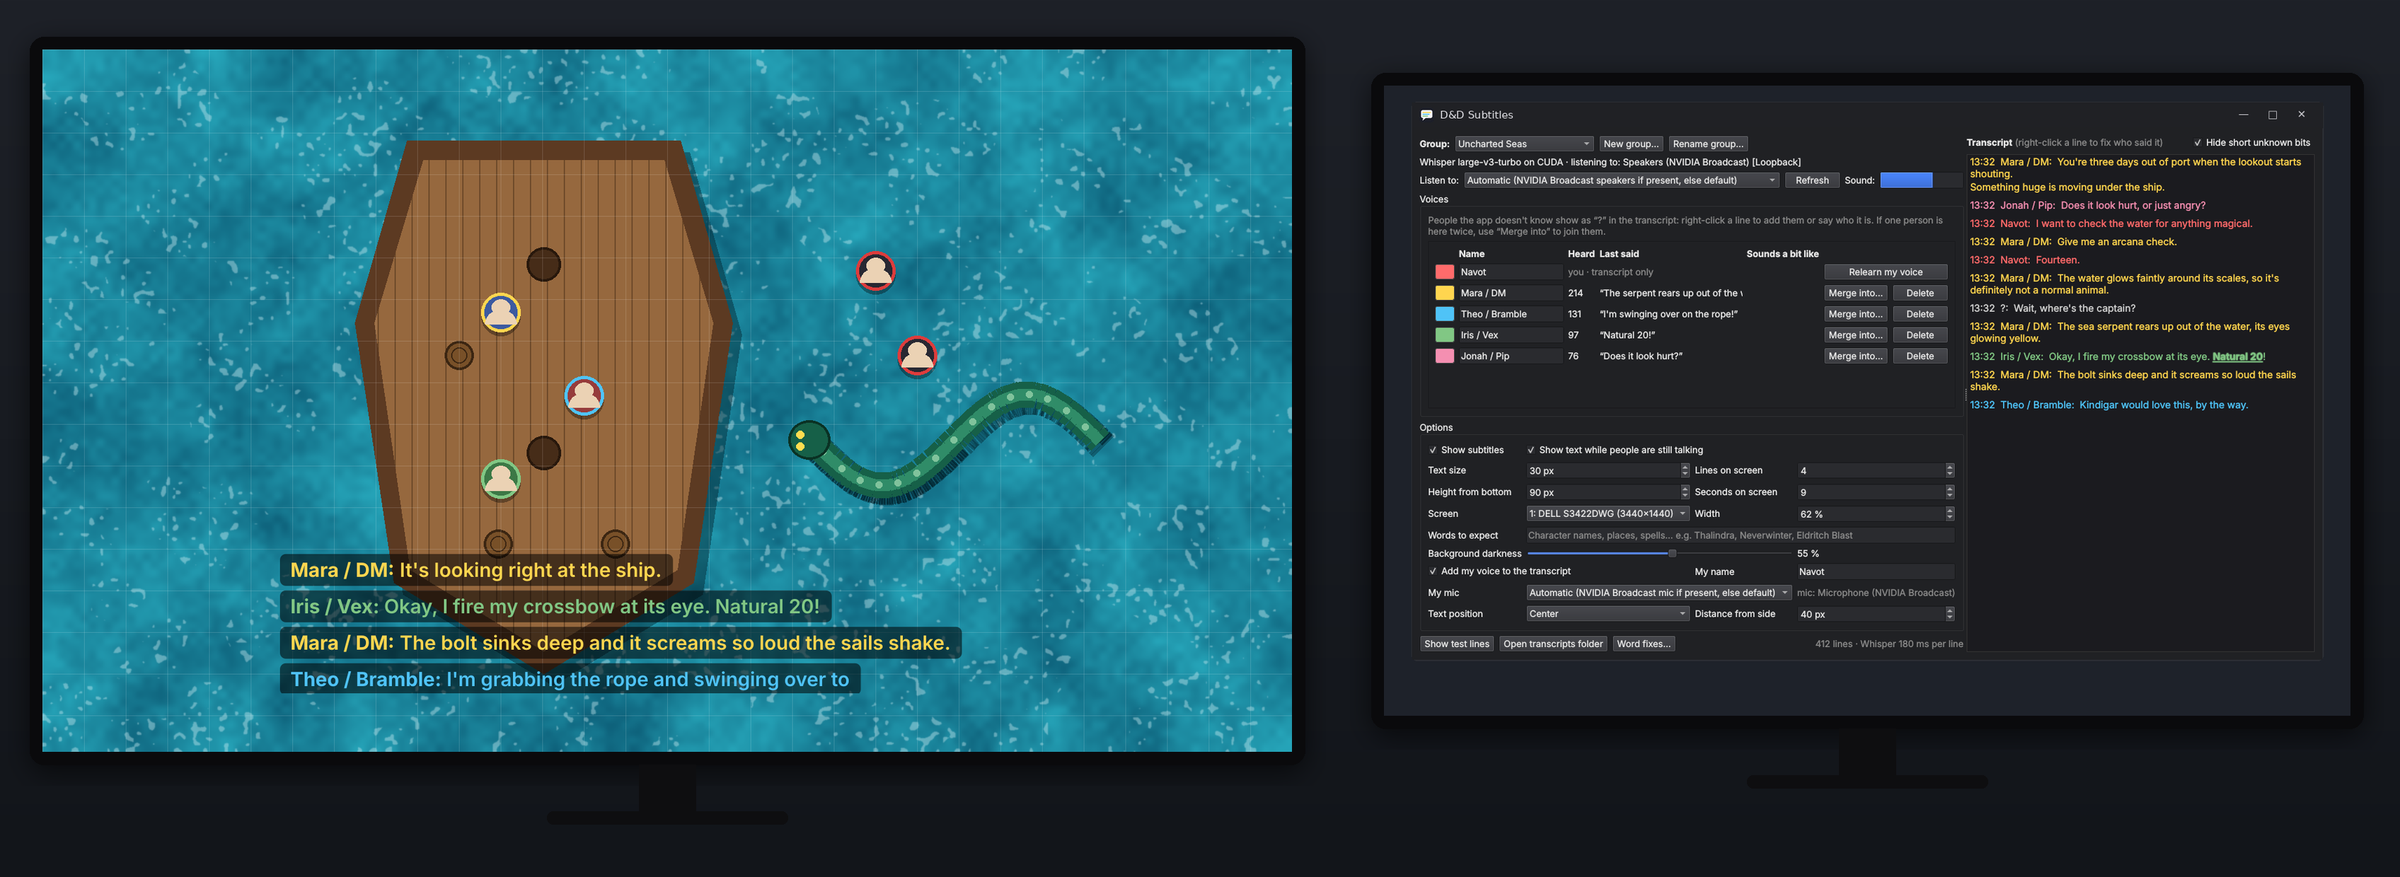
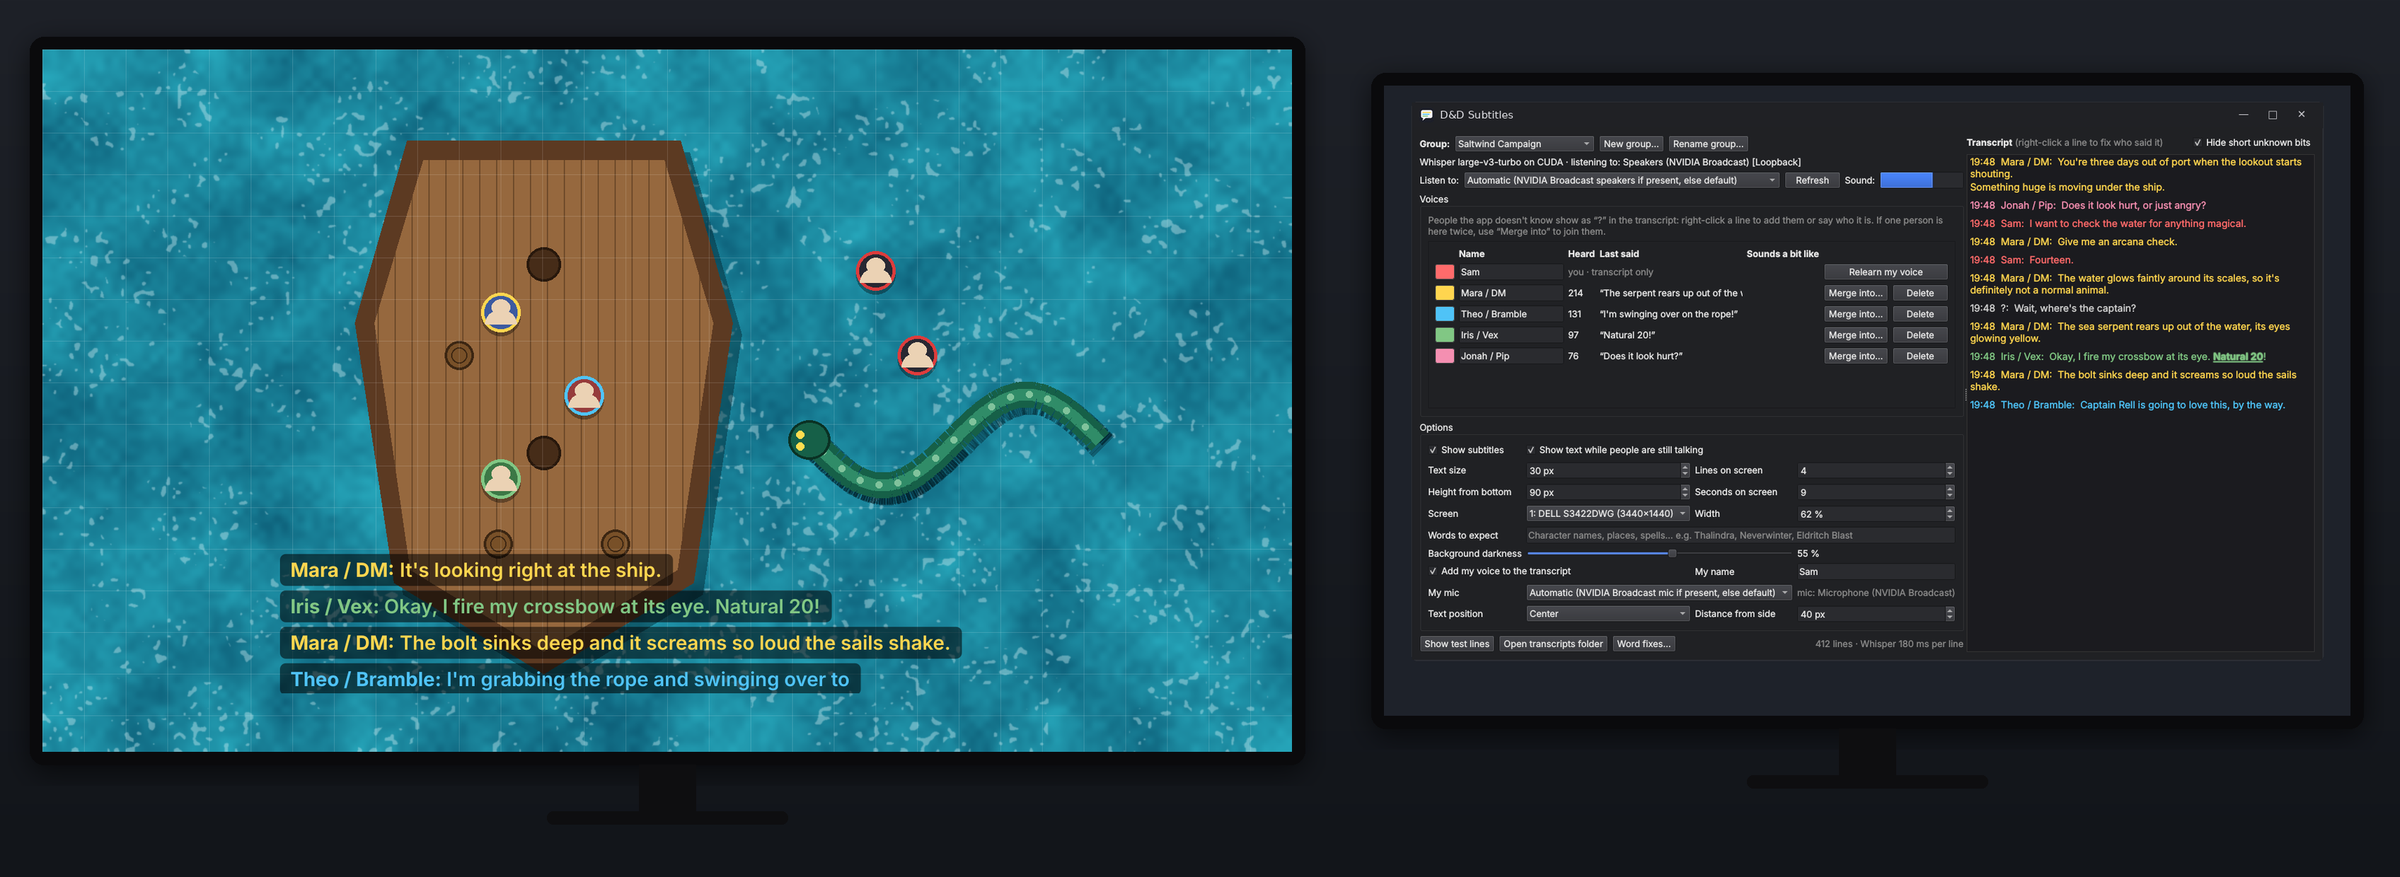
Remove personal defaults: own-voice name comes from the Windows user name, no default word fixes, neutral mockup
Claude-Session: https://claude.ai/code/session_01EempKYzHAEVVzJUmpgSXjm

Changed region(s): [[0.8125, 0.2155, 0.9688, 0.4926], [0.625, 0.1539, 0.6562, 0.1847]]

diff --git a/app.py b/app.py
@@ -571,7 +571,7 @@ class Panel(QtWidgets.QWidget):
         self.cb_me.setChecked(cfg.get("my_voice", True)); self.cb_me.toggled.connect(self.toggle_mic)
         g.addWidget(self.cb_me, 6, 0, 1, 2)
         g.addWidget(QtWidgets.QLabel("My name"), 6, 2)
-        self.me_name = QtWidgets.QLineEdit(cfg.get("my_name", "Navot"))
+        self.me_name = QtWidgets.QLineEdit(cfg.get("my_name", "Me"))
         self.me_name.editingFinished.connect(lambda: self.set_my_name(self.me_name.text()))
         g.addWidget(self.me_name, 6, 3)
         g.addWidget(QtWidgets.QLabel("My mic"), 7, 0)
@@ -598,7 +598,7 @@ class Panel(QtWidgets.QWidget):
         br = QtWidgets.QHBoxLayout()
         b = QtWidgets.QPushButton("Show test lines"); b.clicked.connect(self.overlay.demo); br.addWidget(b)
         b = QtWidgets.QPushButton("Open transcripts folder"); b.clicked.connect(self.open_transcripts); br.addWidget(b)
-        b = QtWidgets.QPushButton("Word fixes…"); b.setToolTip("Always turn a misheard word into the right one (e.g. kindergarten → Kindigar)")
+        b = QtWidgets.QPushButton("Word fixes…"); b.setToolTip("Always turn a misheard word into the right one (e.g. straw → Strahd)")
         b.clicked.connect(self.edit_word_fixes); br.addWidget(b)
         br.addStretch(1)
         self.info = QtWidgets.QLabel(""); self.info.setStyleSheet("color:#888"); br.addWidget(self.info)
@@ -887,7 +887,7 @@ class Panel(QtWidgets.QWidget):
         # you: only a colour and a name (your voice is never matched, merged or learned)
         mcol = QtWidgets.QPushButton(); mcol.setFixedSize(28, 22); mcol.clicked.connect(self.pick_my_color)
         mcol.setStyleSheet(f"background:{self.cfg.get('my_color', '#FF6B6B')}; border:1px solid #444; border-radius:3px")
-        mname = QtWidgets.QLineEdit(self.cfg.get("my_name", "Navot")); mname.setFixedWidth(150)
+        mname = QtWidgets.QLineEdit(self.cfg.get("my_name", "Me")); mname.setFixedWidth(150)
         mname.editingFinished.connect(lambda w=mname: self.set_my_name(w.text()))
         mnote = QtWidgets.QLabel("you · transcript only"); mnote.setStyleSheet("color:#888")
         relearn = QtWidgets.QPushButton("Relearn my voice")

diff --git a/engine.py b/engine.py
@@ -49,11 +49,11 @@ DEFAULT_CONFIG = {
     "change_threshold": 0.35,          # voice before/after a point this different -> a different person took over
     "max_segment_seconds": 10,
     "group": "Group 1",                # which D&D group's voices are in use (groups\\<name>.json)
-    "word_fixes": [["kindergarten", "Kindigar"]],     # always turn the first into the second
+    "word_fixes": [],                  # [["heard as", "replace with"], ...] (kept per group)
     "hide_short_unknown": True,
     "echo_threshold": 0.5,             # mic audio that follows the call this closely is echo, not you        # transcript: hide 1-2 word lines nobody was recognised for
     "my_voice": True,                  # add your own microphone to the transcript (not the subtitles)
-    "my_name": "Navot",
+    "my_name": "",                     # empty = your Windows user name
     "my_color": "#FF6B6B",
     "mic_device": "auto",              # "auto" = NVIDIA Broadcast microphone if present, else Windows default
 }
@@ -74,7 +74,13 @@ def load_config():
             with open(p, encoding="utf-8") as f: cfg.update(json.load(f))
         except Exception as e:
             print(f"[config] could not read config.json ({e}); using defaults", flush=True)
+    if not cfg.get("my_name"): cfg["my_name"] = default_my_name()
     return cfg
+
+def default_my_name():
+    n = (os.environ.get("USERNAME") or os.environ.get("USER") or "").strip()
+    return n[:1].upper() + n[1:] if n else "Me"
+
 
 def save_config(cfg):
     p = os.path.join(HERE, "config.json"); tmp = p + ".tmp"

diff --git a/README.md b/README.md
@@ -27,9 +27,9 @@ Start it from the desktop icon (no console window; messages go to `app.log`). Cl
 
   Click a colour box to change a colour.
 - **Groups:** each D&D group has its own voices (`groups\<group>.json`). Switch, add or rename groups at the top of the window. Your own voice is shared by all groups.
-- **Your own voice:** your mic is added to the transcript only, never to the subtitles. Echo of the call that your mic picks up is recognised and ignored. Use **Relearn my voice** if your lines look wrong.
+- **Your own voice:** your mic is added to the transcript only, never to the subtitles. It is labelled with your Windows user name; change it under **My name**. Echo of the call that your mic picks up is recognised and ignored. Use **Relearn my voice** if your lines look wrong.
 - **Transcripts:** saved in `transcripts\<group>\<date>.txt`. Reopening within an hour carries on in the same file, even past midnight. Fixes and renames are written into the file too. Select lines with Ctrl or Shift-click and copy them with right-click or Ctrl+C. "Natural 20" is highlighted.
-- **Word fixes…:** always replace a misheard word, for example *kindergarten → Kindigar*. The right-hand words are also given to Whisper as words to expect. Words to expect and word fixes are saved per group.
+- **Word fixes…:** always replace a misheard word, for example *straw → Strahd*. The right-hand words are also given to Whisper as words to expect. Words to expect and word fixes are saved per group.
 - **Display:** text size, number of lines, position (left, centre or right), width, background darkness and screen. The window stays click-through over games; use borderless or windowed mode.
 
 ## How it works (short)
